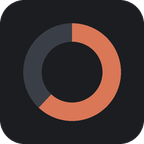
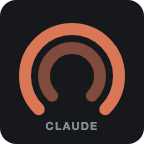
feat(c_ai_usage): 플레이스홀더 아이콘을 270° 트윈 아크 마크로 교체
디자인의 아이콘 섹션을 구현한다. 마크는 두 겹 아크 — 두 겹이 두 창(5H·주간),
두 색이 두 프로바이더다. 아래쪽 90° 를 비워 게이지 하단 판독부와 같은 실루엣이다.

- 마켓플레이스 256/512: 두 색 + 배경판 (스토어에서 단독으로 선다)
- CategoryIcon 28/56: 모노
- 액션 Icon 20/40: 프로바이더색 — 두 액션이 목록에 나란히 서므로 모노면 구분이 안 된다
- Encoder.Icon 72/144, States[].Image 72/144(+ 프로바이더 이름)

크기 분기는 논리 크기로 판정한다. 1x/2x 는 같은 논리 크기의 다른 해상도이므로
같은 분기를 타야 한다 — 40px 자산에 40px 분기를 쓰면 icon@2x 가 icon 과 다른
그림이 된다.

재생성 스크립트를 남긴다(scripts/build-icons.mjs). media_controller 아이콘 때
스크립트를 안 남겨 규격을 다시 복원해야 했다.

체크리스트 최종 애셋 2항목 완료. 실기기 확인: validate ✔, WARN/ERROR 0건.

diff --git a/CLAUDE.md b/CLAUDE.md
@@ -165,4 +165,5 @@ media_controller와 **폴링 구조가 정반대**다. 거기서는 인스턴스
 - **⚠ SVG 색은 6자리 `#RRGGBB`만 쓴다.** 8자리 hex(`#RRGGBBAA`)는 색으로 받아들여지지 않아 **조용히 어긋난다** — `stroke`는 채움이 사라지고 `fill`은 검정이 되어 어두운 배경에 묻힌다(실기기 2026-08-04, 키 도넛의 WK 링이 이렇게 안 채워졌다). 반투명이 필요하면 배경 위에 미리 섞어 6자리로 굳힌다([render/gauge.ts](c_ai_usage/src/render/gauge.ts)의 `ACCENT_DIM`). `preview/` 컨택트시트는 브라우저가 그려서 이 부류를 못 잡는다 — `gauge.test.ts`의 "모든 fill·stroke 가 `#RRGGBB` 아니면 `none`" 불변식이 가드다.
 - **응답 본문을 로그에 쓰지 않는다.** Codex 사용량 응답에 `email`·`user_id`·`account_id`가 평문으로 온다. 그래서 이 워크스페이스는 `logger.setLevel('info')`다(media_controller의 `'trace'`를 복사하면 안 된다). Claude 키체인 blob에는 MCP 서버별 clientSecret이 동거하므로 `claudeAiOauth` 한 필드만 읽는다.
 - **`preview/`는 생성물**(gitignore). `npm test`가 매번 디렉토리를 비우고 SVG + `index.html` 컨택트시트를 다시 만든다(픽스처 이름을 바꿨을 때 옛 SVG가 섞이는 것을 막는다). 읽히는지는 눈으로만 확인되므로 헤드리스 Chrome으로 **실제 기기 픽셀 크기**에 래스터라이즈해서 본다 — 키는 SD+ HID 해상도인 **120×120**(144 SVG가 축소돼 올라간다), 다이얼은 200×100 그대로다.
+- **아이콘 16장은 스크립트 생성물이지만 커밋된다**([scripts/build-icons.mjs](c_ai_usage/scripts/build-icons.mjs), 헤드리스 Chrome). 마크는 270° 트윈 아크 — 두 겹이 두 창, 두 색이 두 프로바이더다. 크기 분기는 **논리 크기**로 판정한다(1x/2x 는 같은 논리 크기의 다른 해상도이므로 같은 분기를 타야 한다 — 40px 자산에 40px 분기를 쓰면 `icon@2x` 가 `icon` 과 다른 그림이 된다). 이 스크립트의 SVG 는 **8자리 hex 를 써도 된다** — 오프라인에서 PNG 로 굽고 기기에는 PNG 가 올라가므로 위의 6자리 제약은 런타임 SVG(`render/gauge.ts`)에만 적용된다.
 - **statusline 훅은 선택 설치**다([scripts/statusline-cache.mjs](c_ai_usage/scripts/statusline-cache.mjs)). 설치하면 코딩 중 API 호출이 0이 된다(tier 1). 설치 안 해도 직접 폴링(tier 2)으로 동작한다.

diff --git a/ai-limits-checklist.md b/ai-limits-checklist.md
@@ -189,5 +189,6 @@
 
 ## 최종 애셋 (전 페이즈 공통)
 
-- [ ] 플레이스홀더 → 실제 아이콘 교체 (기존 아이콘 디자인 프로젝트 계열)
-- [ ] 규격: 액션 `Icon` 20/40 · `States[].Image` 72/144 · `Encoder.Icon` 72/144 · `CategoryIcon` 28/56 · 플러그인 `Icon` 256/512. **120x120 만들지 않음**(SD+ HID 해상도이고 SDK 애셋 계약 아님)
+- [x] 플레이스홀더 → 실제 아이콘 교체 — 마크는 **270° 트윈 아크**(두 겹 = 두 창, 두 색 = 두 프로바이더). 생성 스크립트 `c_ai_usage/scripts/build-icons.mjs` (헤드리스 Chrome)
+- [x] 규격: 액션 `Icon` 20/40 · `States[].Image` 72/144 · `Encoder.Icon` 72/144 · `CategoryIcon` 28/56 · 플러그인 `Icon` 256/512. **120x120 만들지 않음**(SD+ HID 해상도이고 SDK 애셋 계약 아님)
+- [x] 크기 분기는 **논리 크기**로 판정 — 1x/2x 는 같은 논리 크기의 다른 해상도이므로 같은 분기를 타야 한다. 40px 자산에 40px 분기를 쓰면 `icon@2x` 가 `icon` 과 다른 그림이 된다
